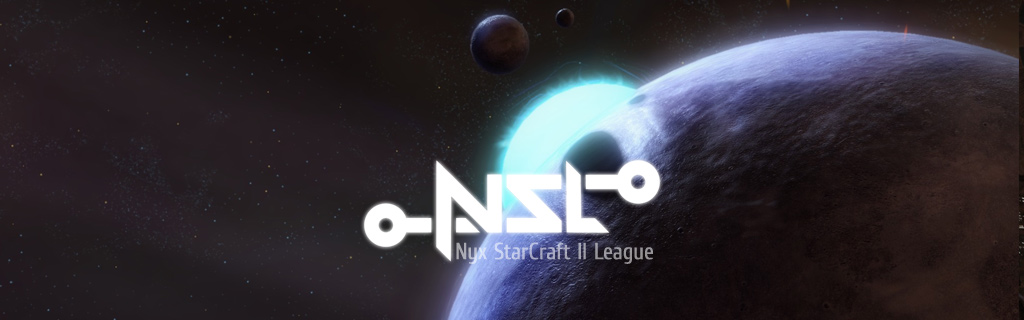
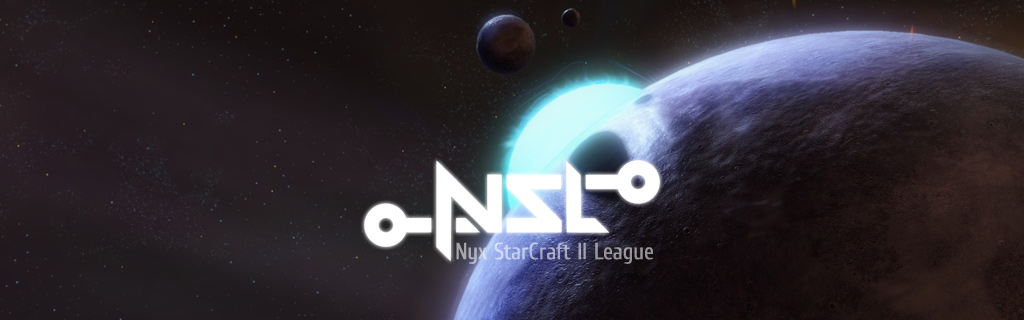
slight facelift

diff --git a/sctms/site_media/css/style.css b/sctms/site_media/css/style.css
@@ -45,15 +45,8 @@ body {font-family:"Segoe UI", "Lucida Grande", "Trebuchet MS", Helvetica, Arial,
 	background:#0b0b0b url('../img/bg2.jpg') center -100px repeat-y; color:#aaa;
 	font-size:14px;}
 
-header.top {background:#040404 url('../img/top.jpg') center top no-repeat;text-align:center;}
-header.top.img2 {background-position:center -85px;}
-header.top.img3 {background-position:center -170px;}
-header.top.img4 {background-position:center -255px;}
-header.top.img5 {background-position:center -340px;}
-header.top.img6 {background-position:center -425px;}
-header.top .logo {
-	color:#000000;display:inline-block;font-size:48px;font-weight:bold;
-	padding:10px 20px;text-shadow:0 0 7px #5884AA, 1px 1px 2px #FFFFFF;height:65px;}
+header.top {background:#111 url('../img/header.jpg') center top no-repeat;text-align:center;}
+header.top .logo {height:109px;text-indent:9000px;display:block;width:300px;overflow:hidden;margin:0 auto;}
 header.top .logo:hover {text-shadow:0 0 7px #D69F20, 1px 1px 2px #F6FF4F;color:#1C1606;}
 header.top .mask {background: url('../img/top-mask.png') center no-repeat;}
 
@@ -65,6 +58,9 @@ section.user nav a:hover {background:#1C1606;}
 
 .content hgroup.h1 {text-align:center;font-size:24px;margin-top:30px;color:#D6D6D6;}
 .content hgroup.h1 * {display:inline;}
+.content hgroup.h1 small {font-size:17px;color:#999;}
+.content hgroup.h1 strong {display:block;font-weight:normal;}
+.content hgroup.h1.index {margin:10px auto;}
 .content hgroup .breadcrumbs {color: #555;font-size:17px;}
 .content hgroup .breadcrumbs a {color: #436482;}
 .content hgroup .breadcrumbs a:hover {color: #FFD13A;}
@@ -72,6 +68,8 @@ section.user nav a:hover {background:#1C1606;}
 .content .tournament-slogan {text-align:center;color:#666;font-family:"Trebuchet MS", "Segoe UI", "Lucida Grande";font-style:italic;margin-top:12px;}
 
 .content .content-wrap {width:960px;margin:0 auto;}
+
+.content .light {background:url('../img/grey.png') no-repeat center top;padding-top:1px;min-height:600px;}
 
 .content .index section {width:480px;float:left;}
 

diff --git a/sctms/templates/tms/base.html b/sctms/templates/tms/base.html
@@ -10,13 +10,11 @@
 	</head>
 
 	<body>
-		<header class="top img6">
-			<div class="mask">
-				<a class="logo" href="/">SCTMS</a>
-				<section class="user">
-					{% block user-bar %}{% user_bar %}{% endblock %}
-				</section>
-			</div>
+		<header class="top">
+			<a class="logo" href="/">NSL</a>
+			<section class="user">
+				{% block user-bar %}{% user_bar %}{% endblock %}
+			</section>
 		</header>
 		{% block messages %}
 			{% if messages %}
@@ -29,7 +27,9 @@
 		{% endblock %}
 
 		<div class="content">
-		{% block content %}{% endblock %}
+			<div class="light">
+			{% block content %}{% endblock %}
+			</div>
 		</div>
 
 		{# fancybox #}

diff --git a/sctms/templates/tms/index.html b/sctms/templates/tms/index.html
@@ -5,8 +5,12 @@
 {% block title %}Welcome{% endblock %}
 
 {% block content %}
-<hgroup class="h1">
-    <h1>{% trans "Welcome to StarCraft Tournament Management System" %}</h1>
+<hgroup class="h1 index">
+    <small>{% trans "Welcome to" %}</small>
+    <h1>
+        <strong>Nyx StarCraft 2 League</strong>
+        <small>{% trans "Tournament Management System" %}</small>
+    </h1>
 </hgroup>
 
 <div class="content-wrap index">
